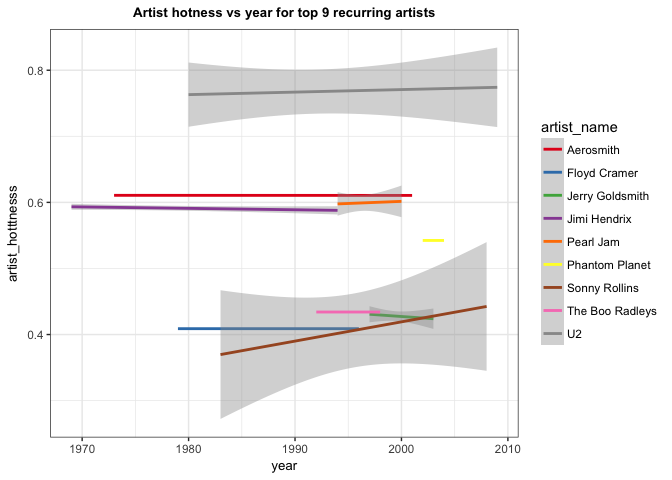
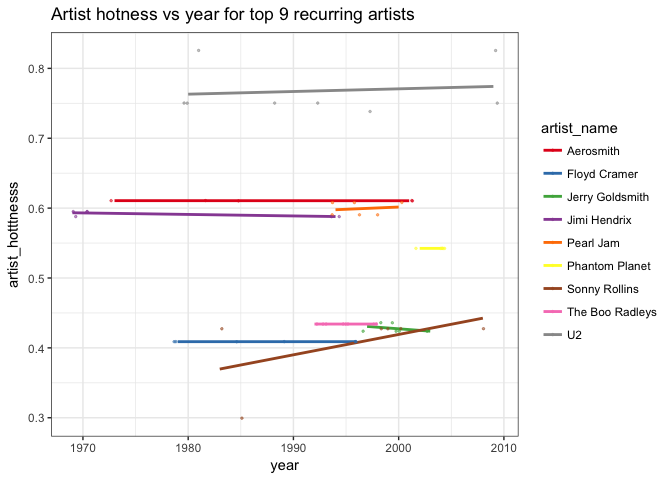
Almost done

diff --git a/hw_05/readme.md b/hw_05/readme.md
@@ -17,10 +17,26 @@
 
 #
 ##### **Overview**
+ - Factor management
+
+ - File I/O
+ 
+ - Visualization design
+ 
+ - Writing figures to file
+ 
+ - Clean up your repo!
+ 
+ - But I <del>want</del> to do more!
 
  
 #
 ##### **Progress**:
+This assignment took me awhile to finish. I wish I had started on it earlier. I spend the most time playing with the fct_reorder() function. I was having problems choosing the right variables to use, and which parameters to give to the command. I realized that using .desc = TRUE needed to be used to solve one of my issues.
+
+In terms of creating plots, I always find a hard time trying to decide what is important. The first plot I creates didn't show the information I had thought it would in my head. I wanted to include these top artists in colour, and all the other artists in a gray to show the difference. But I couldn't think of an efficient way of doing that without creating different subsets.
+
+With the reading and writing in data, it was pretty straight forward. I personally like to use wrte.table() to create all of my functions. I will probably start RDS more often now when I'm dealing with data I manipulate; I like that the variable types remain the same.
 
 #
 ##### **Resources**

diff --git a/hw_05/hw05_factors_figureManagement.md b/hw_05/hw05_factors_figureManagement.md
@@ -362,15 +362,23 @@ top_artist <- singer_yrdrop %>%
       head(9)
 top_artists_list <- unlist(top_artist$artist_name)
 
-singer_factors %>% 
+plot1 <- singer_factors %>% 
       filter(artist_name %in% top_artists_list) %>% 
       ggplot(aes(x = year, y = artist_hotttnesss, color = artist_name)) +
-      geom_smooth(method = lm, size = 1) +
+      geom_smooth(method = lm, se = FALSE) +
+      geom_jitter(size = 0.5, alpha = 0.5) +
       labs(title="Artist hotness vs year for top 9 recurring artists")+
       theme_bw()+
-      scale_color_brewer(palette = "Set1") +
-      theme(axis.title = element_text(size = 10),
-             plot.title = element_text(size = 10, face = "bold", hjust = 0.5))
+      scale_color_brewer(palette = "Set1") 
+plot1
 ```
 
 ![](hw05_factors_figureManagement_files/figure-markdown_github-ascii_identifiers/unnamed-chunk-7-1.png)
+
+``` r
+## This plot wasn't very informative so I decided to create another one
+## 
+```
+
+Writing figures to file
+-----------------------
